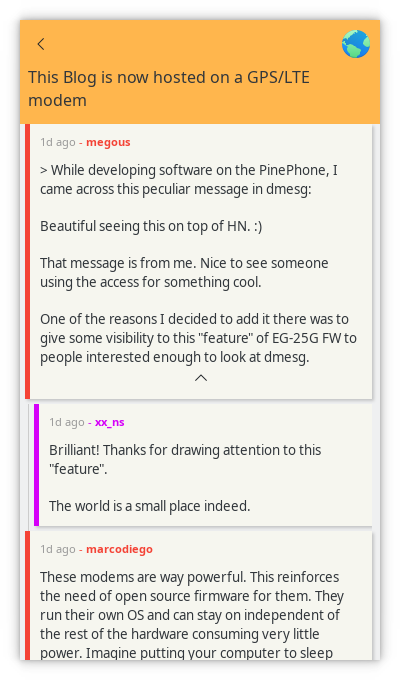
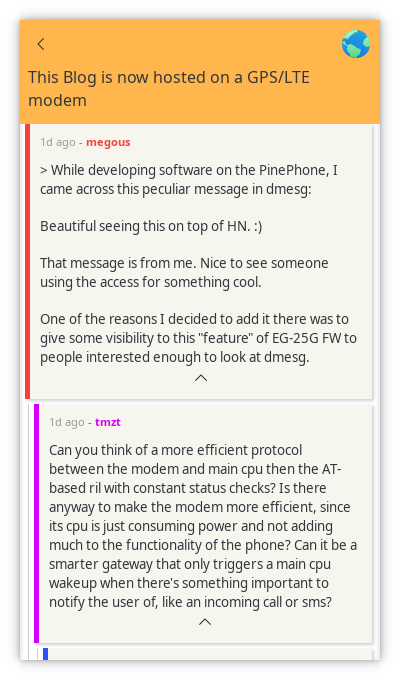
fix shadow on right of comments

Changed region(s): [[0.06, 0.6176, 0.9, 0.9882]]

diff --git a/src/hn/css/style.css b/src/hn/css/style.css
@@ -13,6 +13,7 @@
 }
 .comment-item-body {
 	margin-left: -3px;
+	margin-right: 5px;
 	border-left: 5px solid #f00;
 	padding: 10px;
 	background-color: #f6f6ef;
@@ -52,9 +53,9 @@
 
 .thread-comments {
 	padding-left: 5px;
-	padding-right: 5px;
 	margin-left: 3px;
 	margin-right: 3px;
+	background-color: white;
 }
 .thread-header {
 	background-color: #ffb64d;

diff --git a/src/hn/hn.py b/src/hn/hn.py
@@ -244,8 +244,12 @@ class NewsItem(Gtk.Grid):
         self.comments_event.connect('button-release-event', self.comments_click)
         self.attach(self.comments_event, 9, 0, 1, 4)
 
+
+        self.connect('show', self.on_show)
         self.show_all()
-        q.put((self._set_content, _item_id))
+
+    def on_show(self, what):
+        q.put((self._set_content, self.thread_id))
 
     def comments_click(self, eventbox, event):
         window = self.get_toplevel()
@@ -272,6 +276,8 @@ class NewsItem(Gtk.Grid):
 class CommentItem(Gtk.VBox):
     def __init__(self, _item_id, nesting, *args, **kwds):
         super().__init__(*args, **kwds)
+        self.rendered = False
+        self.comment_id = _item_id
 
         self.nesting = nesting
         self.get_style_context().add_class(f'comment-item')
@@ -281,7 +287,7 @@ class CommentItem(Gtk.VBox):
         self.comment_body = Gtk.Grid()
         self.comment_body.get_style_context().add_class('comment-item-body')
 
-        self._time = Gtk.Label()
+        self._time = Gtk.Label(label='...')
         self._time.set_margin_bottom(10)
         self._time.set_xalign(0)
         self._time.get_style_context().add_class('comment-item-time_user')
@@ -305,11 +311,16 @@ class CommentItem(Gtk.VBox):
 
         self.add(self.comment_body)
         self.add(self.replies_container)
+        self.connect('show', self.on_show)
         self.show_all()
 
-        q.put((self._set_content, _item_id))
+
+    def on_show(self, what):
+        if not self.rendered:
+            q.put((self._set_content, self.comment_id))
 
     def _set_content(self, _item_id):
+        self.rendered = True
         comment = get_comment(_item_id)
         GLib.idle_add(self.set_content, comment)
 
@@ -367,7 +378,7 @@ def background_fn():
     while True:
         fn, arg = q.get()
         fn(arg)
-        #time.sleep(0.1)
+        time.sleep(0.01)
 
 
 def main():
